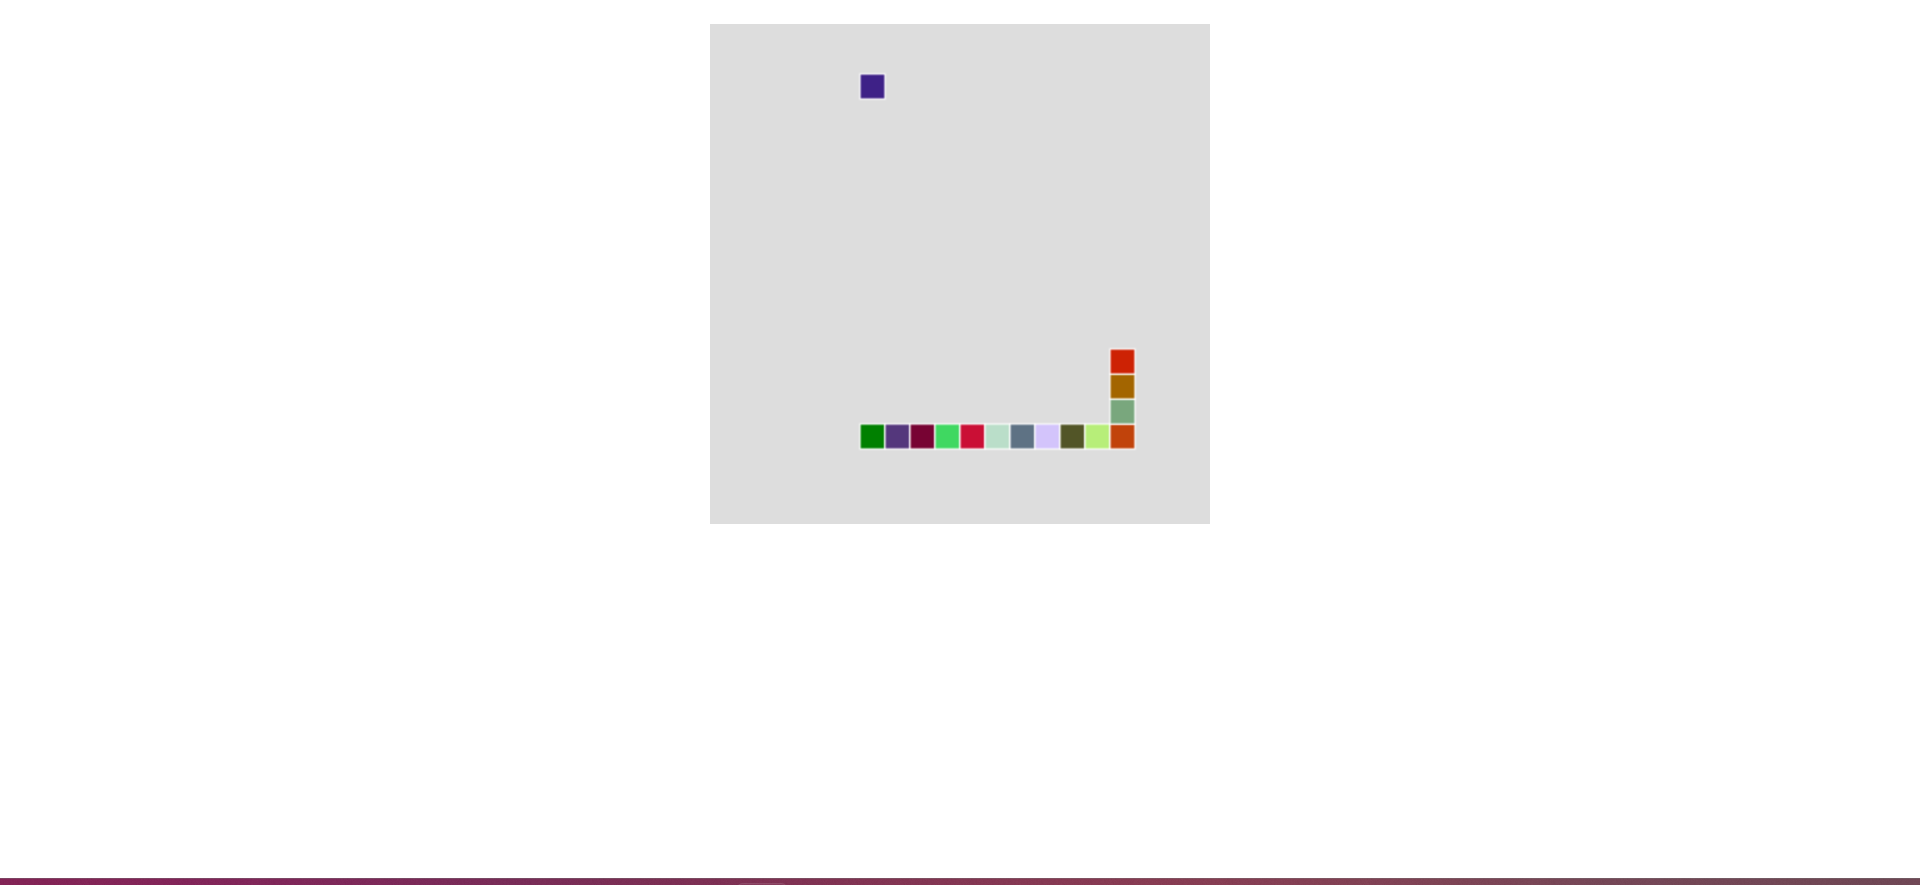
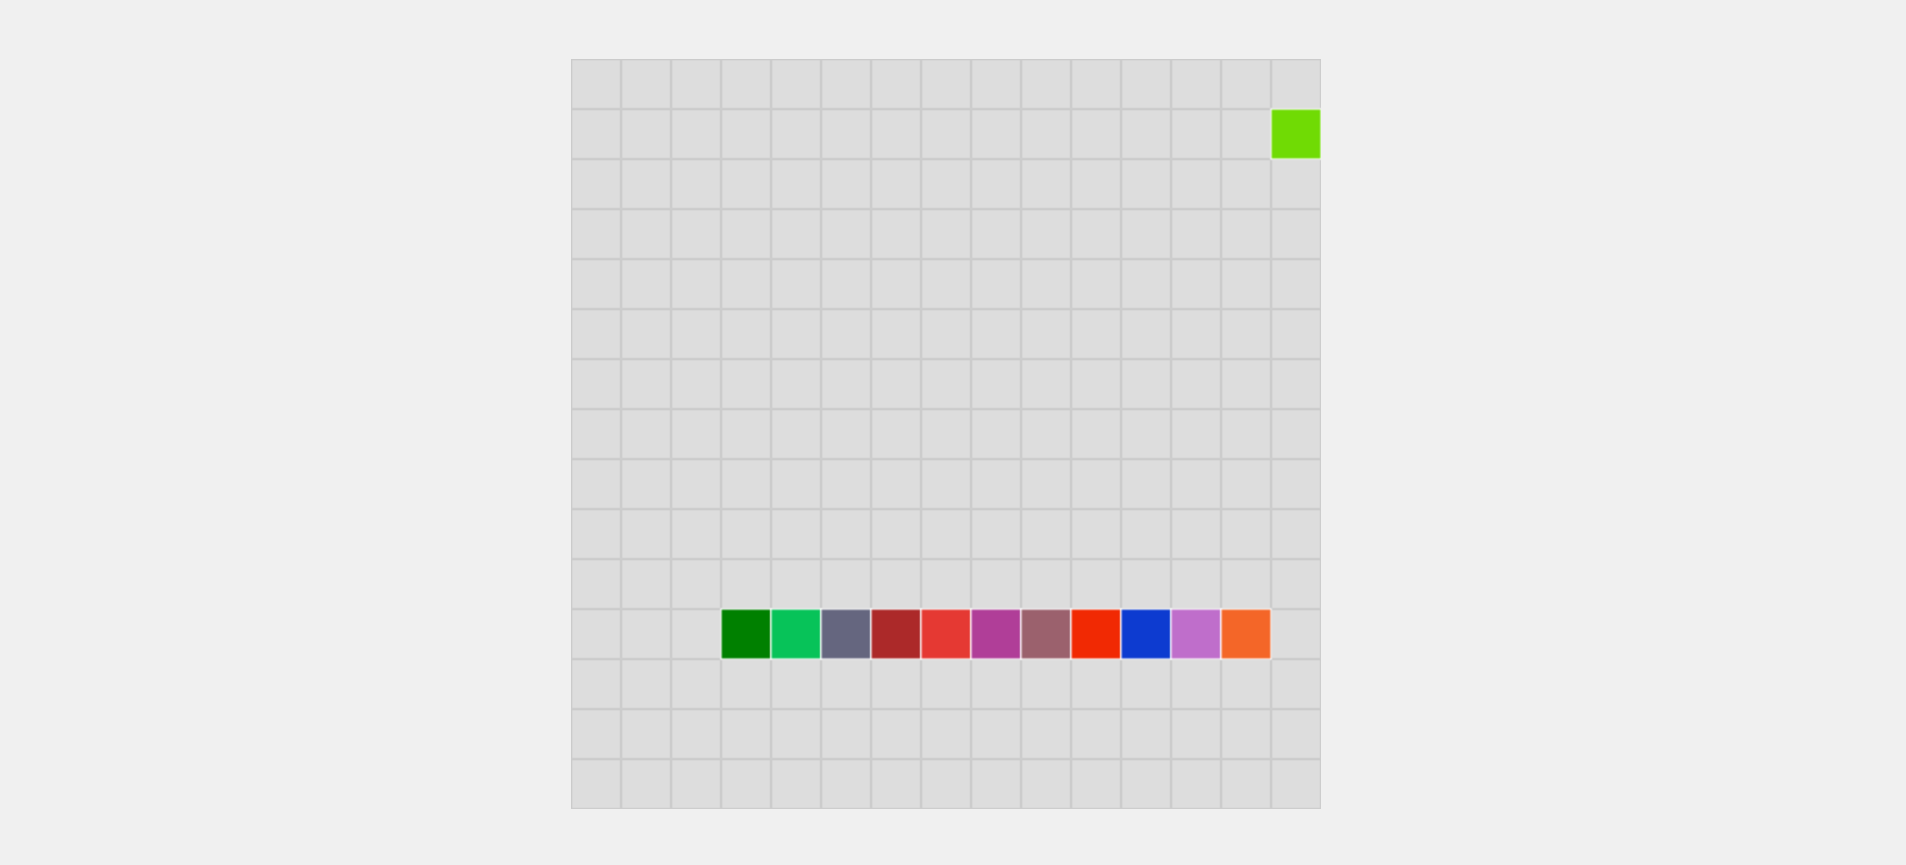
feat: Added grid visualization and centered that grid

Changed region(s): [[0.2786, 0.0624, 0.712, 0.9364], [0.0, 0.9676, 1.0, 1.0], [0.4334, 0.0624, 0.4643, 0.1249]]

diff --git a/index.html b/index.html
@@ -9,11 +9,15 @@
         body {
             margin: 0;
             padding: 0;
+            display: flex;
+            justify-content: center;
+            align-items: center;
+            height: 100vh;
+            background-color: #f0f0f0;
         }
 
         canvas {
             display: block;
-            margin: 20px auto;
             background-color: #ddd;
         }
 
@@ -33,7 +37,7 @@
 </head>
 
 <body>
-    <canvas id="gameCanvas" width="400" height="400"></canvas>
+    <canvas id="gameCanvas" width="600" height="600"></canvas>
 
     <!-- Add arrow buttons for mobile devices -->
     <div id="arrowButtons" style="display: none;">
@@ -43,14 +47,17 @@
         <button onclick="changeDirection('down')">&#8595; DOWN</button>
     </div>
 
-
     <script>
         // Get the canvas element
         var canvas = document.getElementById("gameCanvas");
         var context = canvas.getContext("2d");
 
         // Set up the initial game state
-        var gridSize = 20;
+        var gridSize = 40;  // Increase the grid size
+        var gridWidth = canvas.width / gridSize;
+        var gridHeight = canvas.height / gridSize;
+        var offsetX = (canvas.width % gridSize) / 2;
+        var offsetY = (canvas.height % gridSize) / 2;
         var snake = [{ x: 0, y: 0 }];
         var direction = "right";
         var food = createFood();
@@ -59,23 +66,40 @@
 
         // Function to create a random food with a random color
         function createFood() {
-            var foodX = Math.floor(Math.random() * (canvas.width / gridSize));
-            var foodY = Math.floor(Math.random() * (canvas.height / gridSize));
+            var foodX = Math.floor(Math.random() * gridWidth);
+            var foodY = Math.floor(Math.random() * gridHeight);
             return { x: foodX, y: foodY, color: getRandomColor() };
         }
 
         // Function to draw a cell
         function drawCell(x, y, color) {
             context.fillStyle = color;
-            context.fillRect(x * gridSize, y * gridSize, gridSize, gridSize);
+            context.fillRect(offsetX + x * gridSize, offsetY + y * gridSize, gridSize, gridSize);
             context.strokeStyle = "white";
-            context.strokeRect(x * gridSize, y * gridSize, gridSize, gridSize);
+            context.strokeRect(offsetX + x * gridSize, offsetY + y * gridSize, gridSize, gridSize);
+        }
+
+        // Function to draw the grid
+        function drawGrid() {
+            context.strokeStyle = "#ccc"; // Grid color
+            for (var x = 0; x <= canvas.width; x += gridSize) {
+                context.moveTo(x + offsetX, offsetY);
+                context.lineTo(x + offsetX, canvas.height - offsetY);
+            }
+            for (var y = 0; y <= canvas.height; y += gridSize) {
+                context.moveTo(offsetX, y + offsetY);
+                context.lineTo(canvas.width - offsetX, y + offsetY);
+            }
+            context.stroke();
         }
 
         // Function to draw the entire game board
         function drawGame() {
             // Clear the canvas
             context.clearRect(0, 0, canvas.width, canvas.height);
+
+            // Draw the grid
+            drawGrid();
 
             // Draw the snake
             snake.forEach((segment, index) => {
@@ -132,8 +156,8 @@
             if (
                 head.x < 0 ||
                 head.y < 0 ||
-                head.x >= canvas.width / gridSize ||
-                head.y >= canvas.height / gridSize ||
+                head.x >= gridWidth ||
+                head.y >= gridHeight ||
                 snake.slice(1).some(segment => segment.x === head.x && segment.y === head.y)
             ) {
                 // Game over
